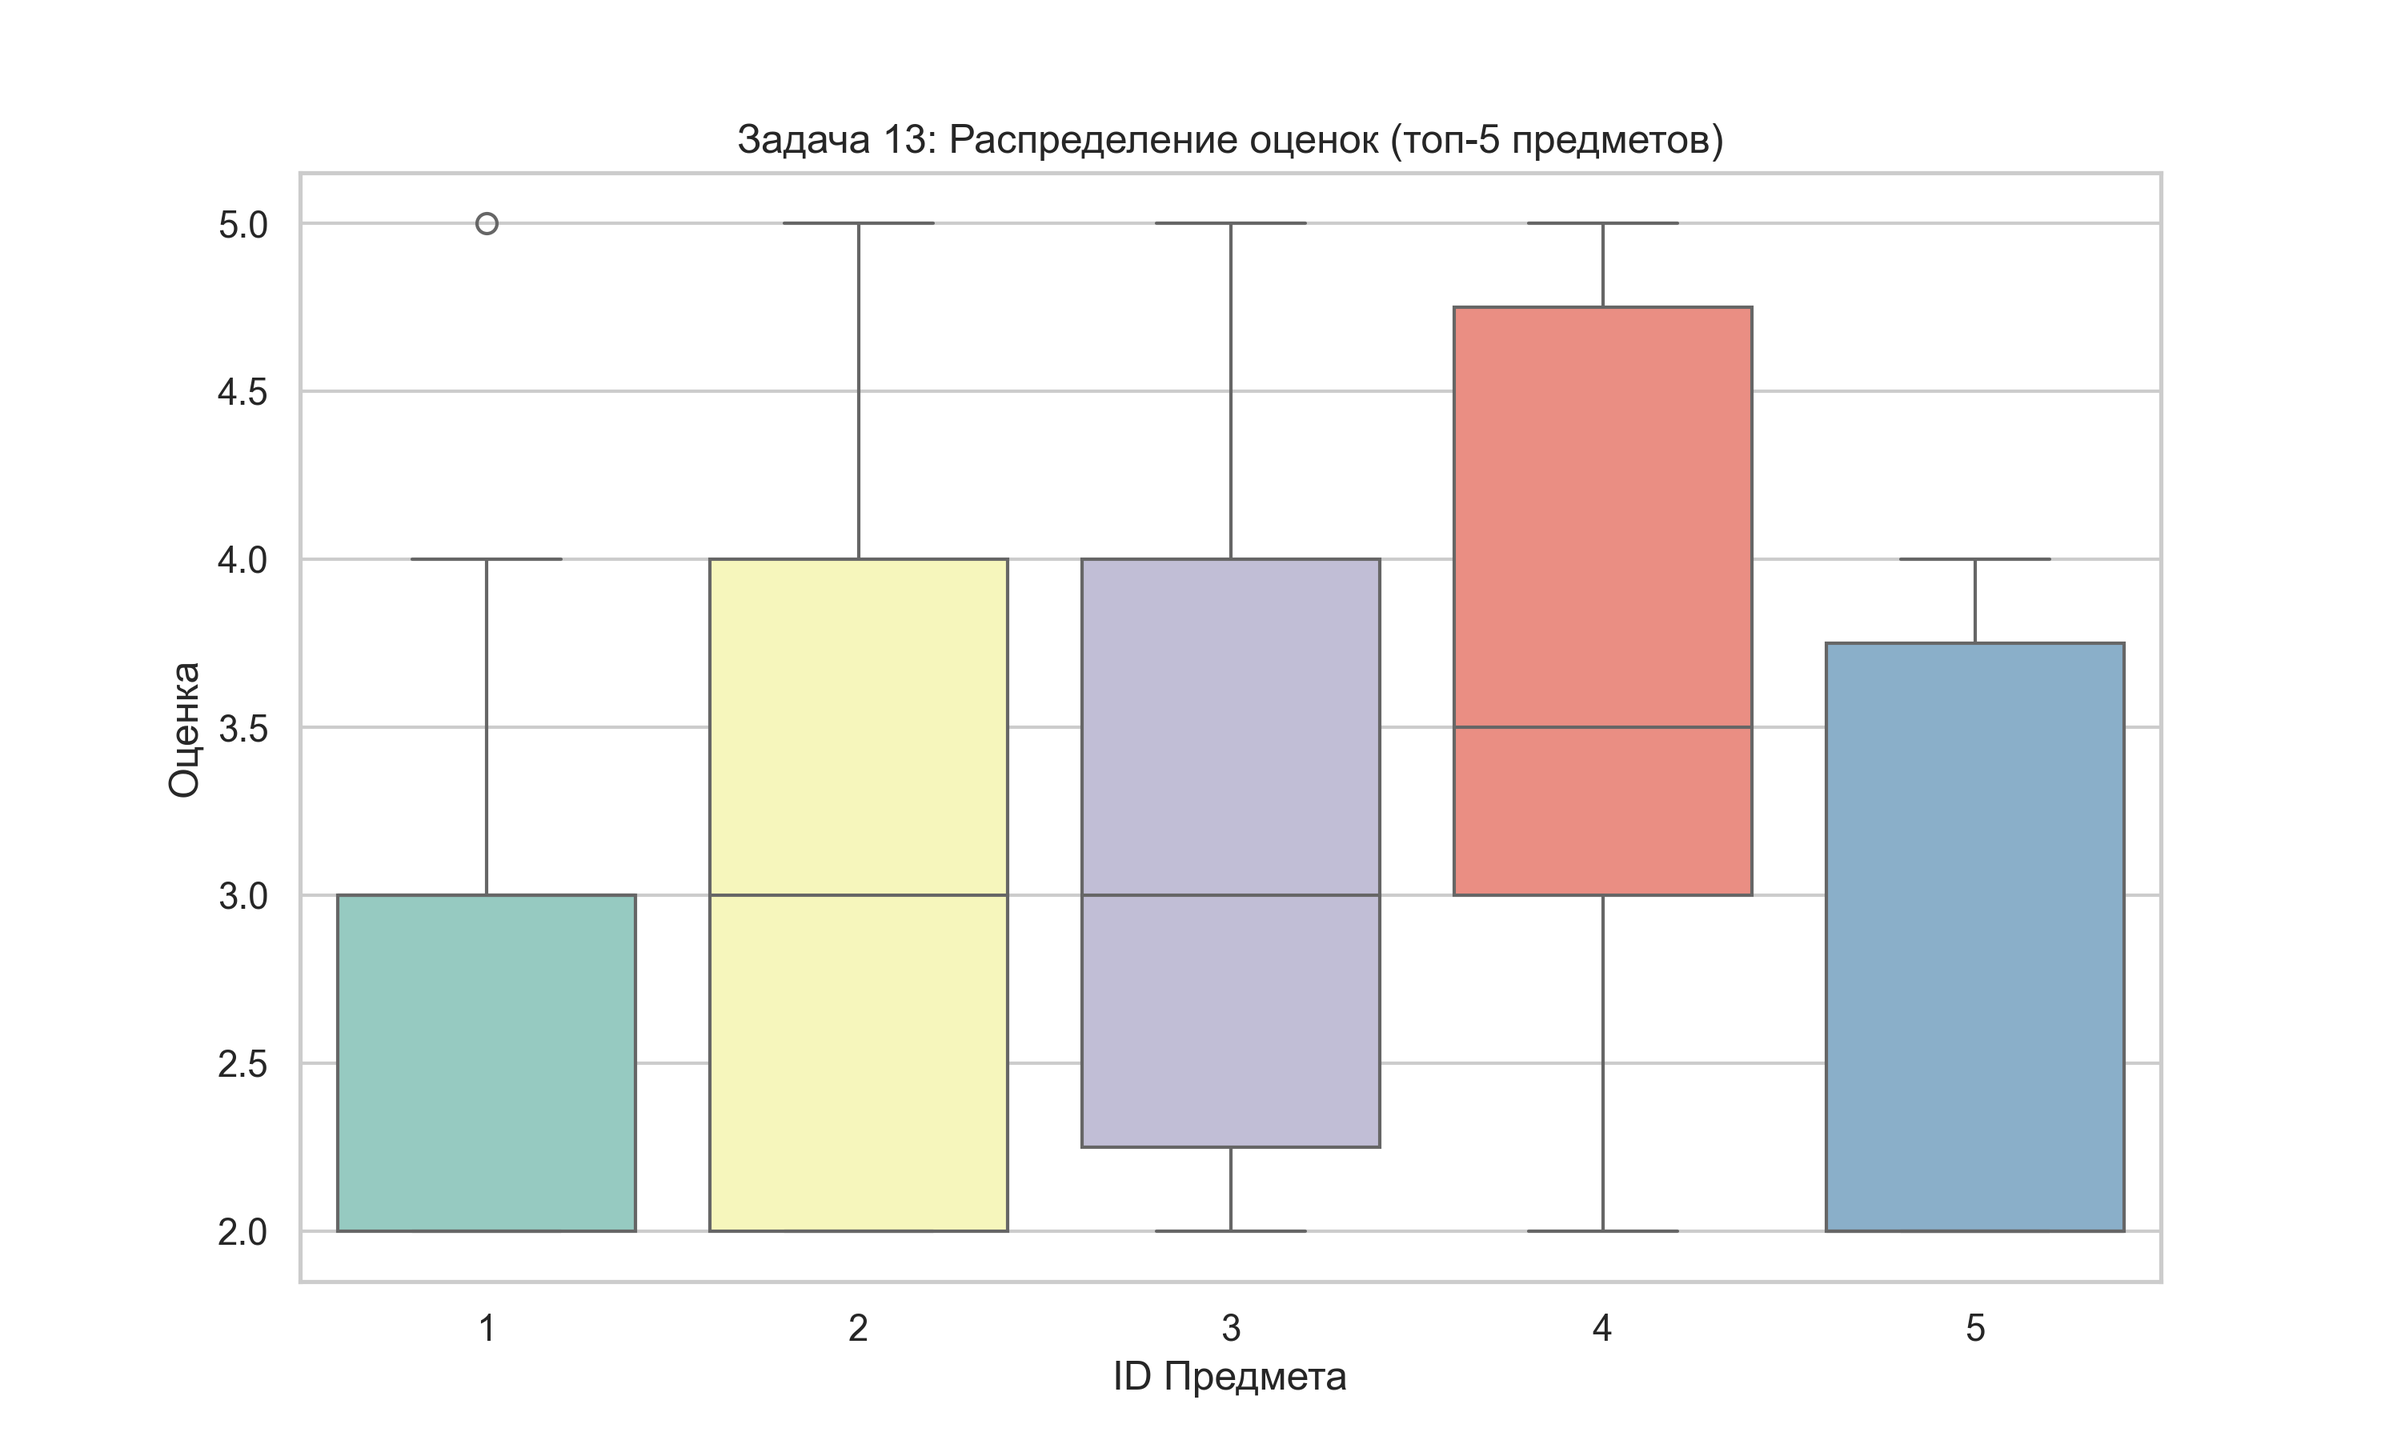
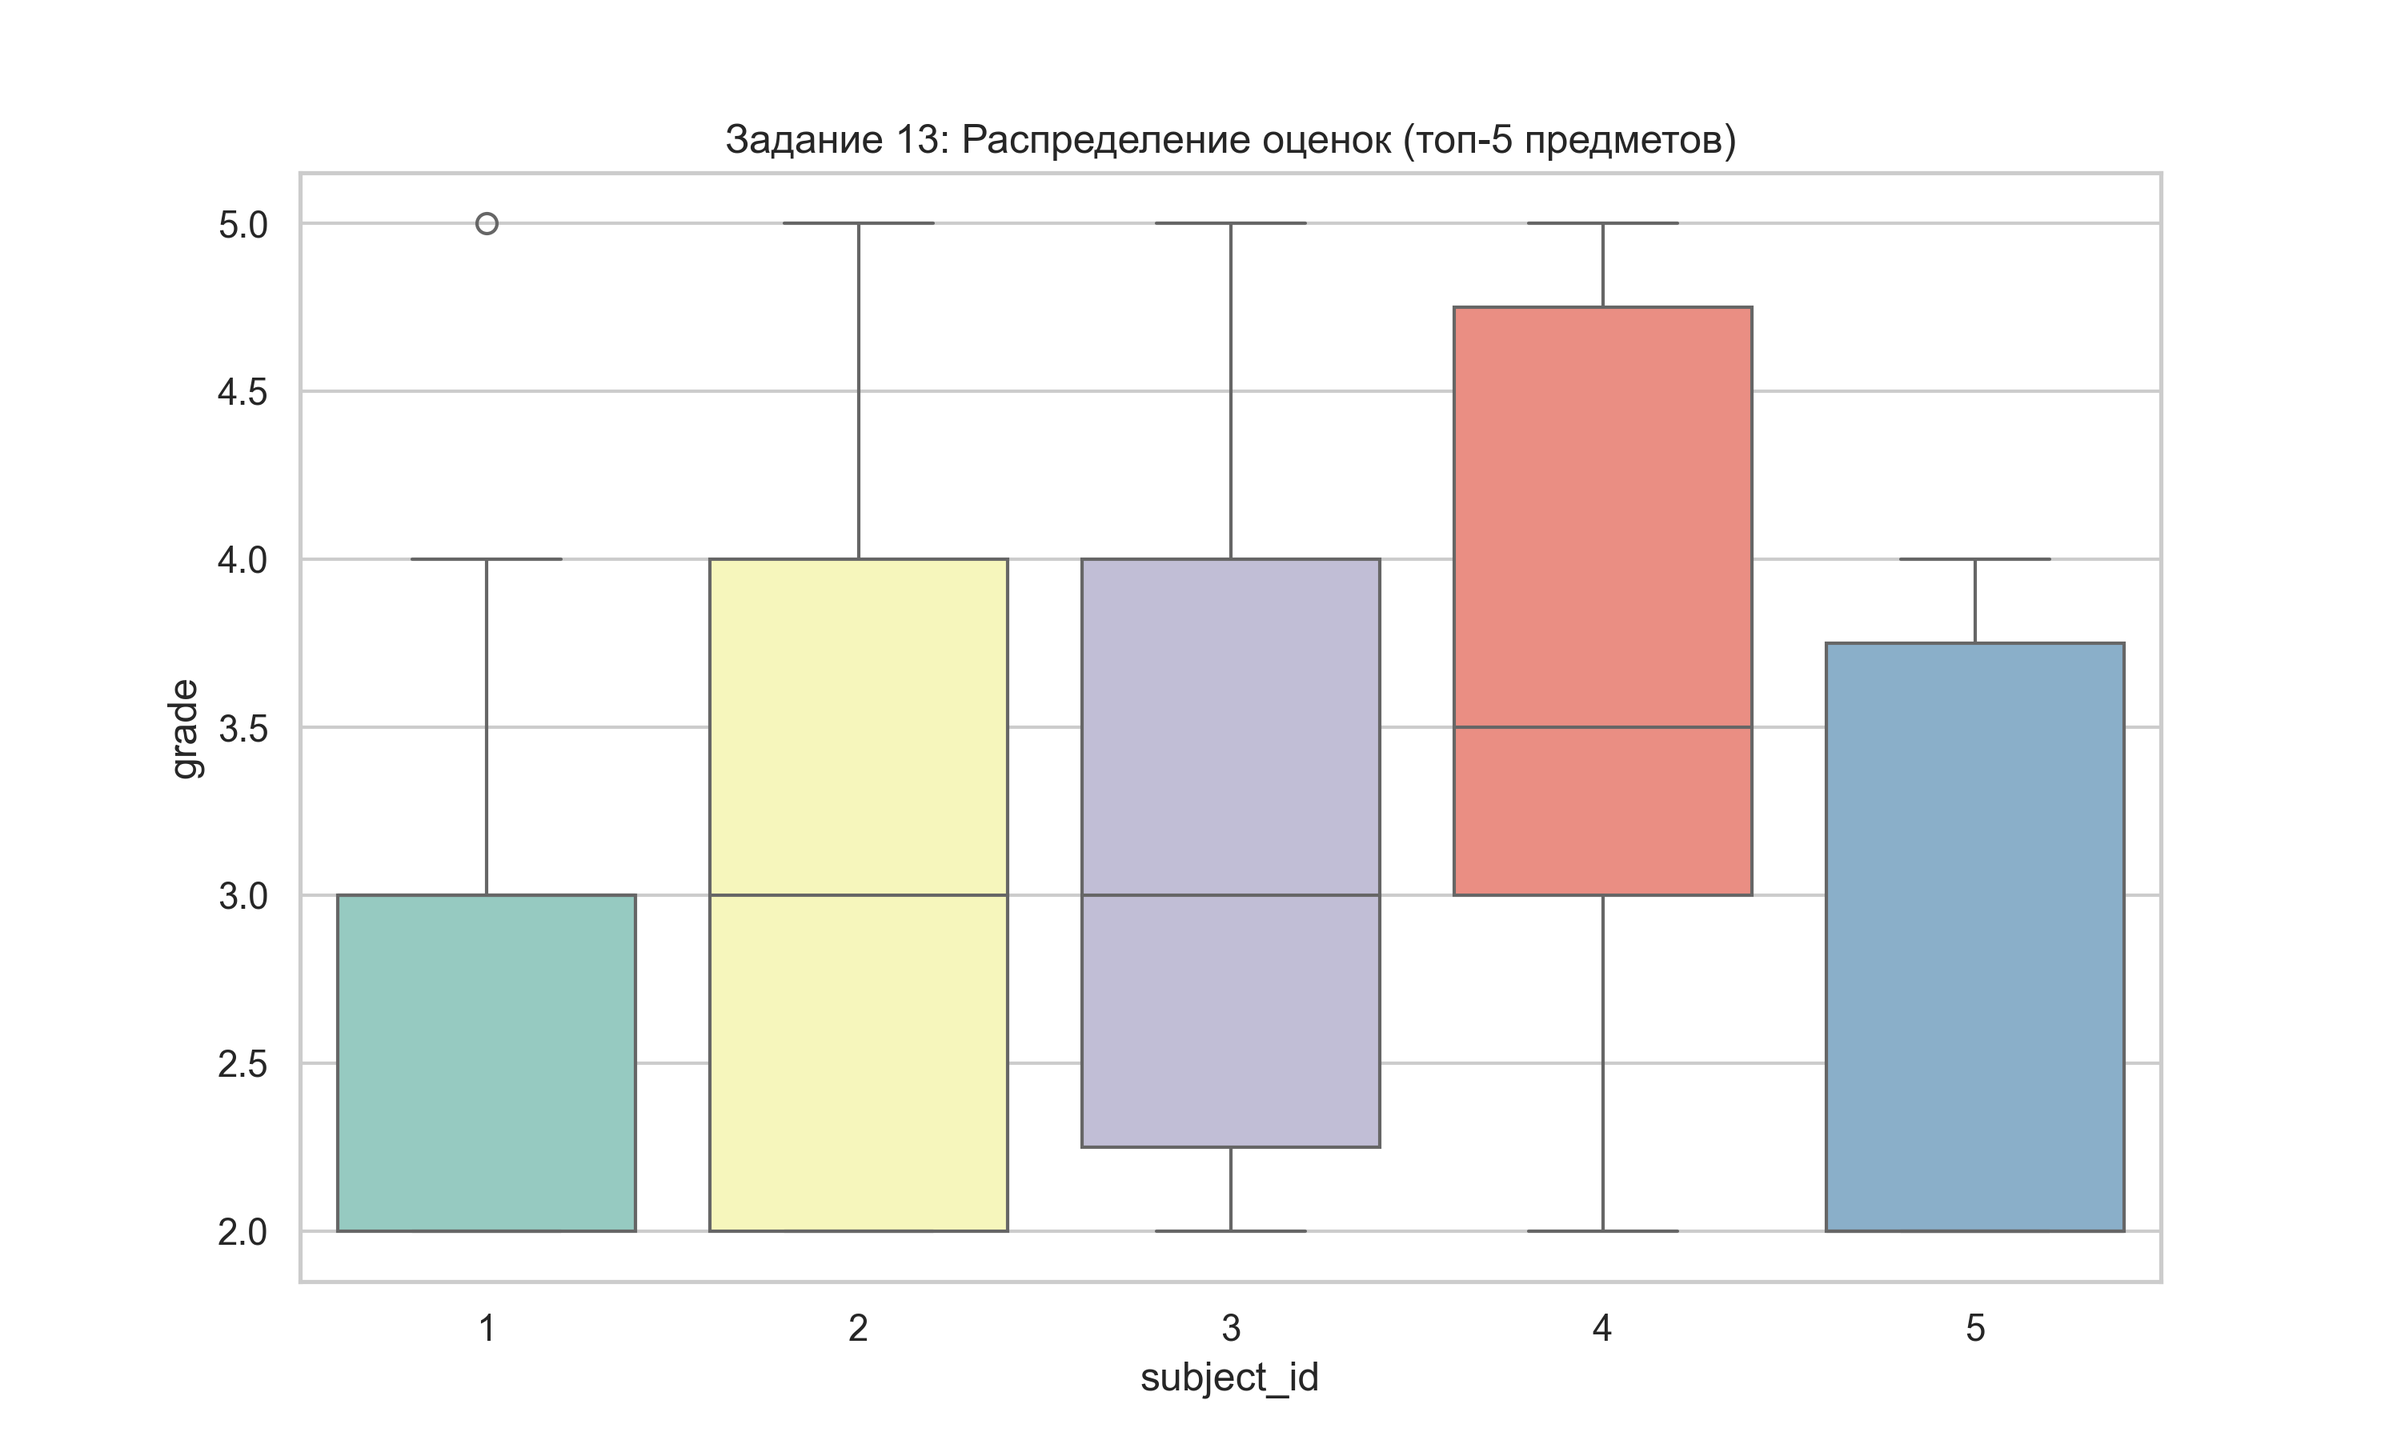
13 week commit

Changed region(s): [[0.31, 0.0622, 0.713, 0.1244], [0.465, 0.9333, 0.558, 0.9644], [0.062, 0.4667, 0.093, 0.56]]

diff --git a/main.py b/main.py
@@ -7,7 +7,7 @@ import seaborn as sns
 import os
 
 
-# ========== 9. FakeGradesGenerator (Генерация данных) ==========
+# ========== Задание 9: Генератор исходных данных ==========
 class FakeGradesGenerator:
     def __init__(self, filename, seed=42):
         self.filename = filename
@@ -17,23 +17,20 @@ class FakeGradesGenerator:
 
     def generate(self):
         random.seed(self.seed)
-        try:
-            with open(self.filename, "w", newline="") as f:
-                writer = csv.writer(f)
-                writer.writerow(["student_id", "subject_id", "grade"])
-                for student_id in range(1, self.num_students + 1):
-                    for subject_id in range(1, self.num_subjects + 1):
-                        grade = random.randint(2, 5)
-                        writer.writerow([student_id, subject_id, grade])
-            print(f"=== Задание 9: Файл '{self.filename}' успешно создан ===")
-        except Exception as e:
-            print(f"Ошибка при создании файла: {e}")
+        with open(self.filename, "w", newline="") as f:
+            writer = csv.writer(f)
+            writer.writerow(["student_id", "subject_id", "grade"])
+            for student_id in range(1, self.num_students + 1):
+                for subject_id in range(1, self.num_subjects + 1):
+                    grade = random.randint(2, 5)
+                    writer.writerow([student_id, subject_id, grade])
 
     def run(self):
         self.generate()
+        print(f"=== Задание 9: Файл '{self.filename}' создан ===")
 
 
-# ========== 10. GradesCorrelation (Работа с шумом и корреляцией) ==========
+# ========== Задание 10: Генерация скоррелированных данных ==========
 class GradesCorrelation:
     def __init__(self, input_file, output_file, seed=42):
         self.input_file = input_file
@@ -42,61 +39,78 @@ class GradesCorrelation:
 
     def process(self):
         if not os.path.exists(self.input_file):
-            print(f"Ошибка: Входной файл {self.input_file} не найден.")
+            print(f"Ошибка: {self.input_file} не найден")
             return
 
-        df_in = pd.read_csv(self.input_file)
-        # Создаем коррелированную оценку: 70% от оригинала + случайный шум
-        noise = self.rng.normal(0, 0.3, size=len(df_in))
-        df_in['grade2'] = (0.7 * df_in['grade'] + noise).clip(2.0, 5.0).round(2)
+        with open(self.input_file, "r") as f:
+            reader = csv.DictReader(f)
+            rows = list(reader)
 
-        df_in.to_csv(self.output_file, index=False)
-        print(f"=== Задание 10: Файл '{self.output_file}' с корреляцией создан ===")
+        output_rows = []
+        for row in rows:
+            sid = row['student_id']
+            subid = row['subject_id']
+            grade1 = float(row['grade'])
+
+            # grade2 = 0.7 * grade1 + шум
+            noise = self.rng.normal(0, 0.3)
+            grade2 = np.clip(0.7 * grade1 + noise, 2.0, 5.0)
+            output_rows.append([sid, subid, grade1, round(grade2, 2)])
+
+        with open(self.output_file, "w", newline="") as f:
+            writer = csv.writer(f)
+            writer.writerow(["student_id", "subject_id", "grade1", "grade2"])
+            writer.writerows(output_rows)
 
     def run(self):
         self.process()
+        print(f"=== Задание 10: Файл '{self.output_file}' с корреляцией создан ===")
 
 
-# ========== 11. GradesValidator (Валидация Pandas) ==========
+# ========== Задание 11: Валидация данных (Pandas) ==========
 class GradesValidator:
     def __init__(self, filename):
         self.filename = filename
+        self.df = None
 
     def run(self):
-        print("\n=== Задание 11: Валидация ===")
-        try:
-            df = pd.read_csv(self.filename)
-            print(f"✅ Файл '{self.filename}' загружен.")
+        print("\n=== Задание 11: Валидация данных ===")
+        if not os.path.exists(self.filename):
+            print("Файл не найден.")
+            return
 
-            # Проверка типов и диапазона
-            if not np.issubdtype(df['grade'].dtype, np.number):
-                print("❌ Ошибка: колонка 'grade' не является числовой!")
-            elif (df['grade'] < 2).any() or (df['grade'] > 5).any():
-                print("❌ Ошибка: Обнаружены оценки вне диапазона [2, 5]!")
-            else:
-                print("✅ Валидация пройдена: все оценки в норме.")
+        self.df = pd.read_csv(self.filename)
+        print(f"✅ Файл '{self.filename}' загружен.")
 
-            print("\nКраткая статистика:")
-            print(df['grade'].describe())
-        except Exception as e:
-            print(f"Ошибка при валидации: {e}")
+        # Проверка типов данных
+        print(f"Типы колонок:\n{self.df.dtypes}")
+
+        # Проверка диапазона оценок [2, 5]
+        grades = self.df['grade']
+        if (grades < 2).any() or (grades > 5).any():
+            print("❌ Ошибка: Есть оценки вне диапазона 2-5!")
+        else:
+            print("✅ Все оценки в корректном диапазоне [2, 5].")
+
+        print("\n--- Описательная статистика ---")
+        print(self.df.describe())
 
 
-# ========== 12. GradesAnalyzer (Анализ средних баллов) ==========
+# ========== Задание 12: Анализ средних баллов ==========
 class GradesAnalyzer:
     def __init__(self, filename):
         self.filename = filename
 
     def run(self):
-        print("\n=== Задание 12: Анализ средних баллов ===")
+        print("\n=== Задание 12: Анализ средних баллов по предметам ===")
         df = pd.read_csv(self.filename)
-        # Группировка по предметам и сортировка
+        # Группировка по ID предмета и расчет среднего
         means = df.groupby('subject_id')['grade'].mean().sort_values(ascending=False)
-        print("Средние оценки по ID предметов:")
         print(means.reset_index().to_string(index=False))
+        return means
 
 
-# ========== 13. GradeVisualizer (Визуализация ООП) ==========
+# ========== Задание 13: Визуализация (ООП) ==========
 class GradeVisualizer:
     def __init__(self, file_path):
         self.file_path = file_path
@@ -107,17 +121,17 @@ class GradeVisualizer:
     def _load_data(self):
         if os.path.exists(self.file_path):
             self.df = pd.read_csv(self.file_path)
-            print(f"\n[INFO] Данные из '{self.file_path}' подгружены для графиков.")
+            print(f"\n[INFO] Данные загружены для визуализации из '{self.file_path}'")
 
-    def plot_top_subjects_boxplot(self, n_subjects=5, save_path='grades_boxplot.png'):
+    def plot_boxplot(self, n_subjects=5, save_path='grades_boxplot.png'):
         if self.df is None: return
 
-        # Берем первые N уникальных предметов
-        selected_ids = self.df['subject_id'].unique()[:n_subjects]
-        subset = self.df[self.df['subject_id'].isin(selected_ids)]
+        # Берем уникальные предметы
+        subjects = self.df['subject_id'].unique()[:n_subjects]
+        subset = self.df[self.df['subject_id'].isin(subjects)]
 
         plt.figure(figsize=(10, 6))
-        # Исправленный вызов без предупреждений (hue задан явно)
+        # Исправлено: добавили hue и legend=False для тишины в консоли
         sns.boxplot(
             x='subject_id',
             y='grade',
@@ -126,23 +140,17 @@ class GradeVisualizer:
             hue='subject_id',
             legend=False
         )
-
-        plt.title(f'Задача 13: Распределение оценок (топ-{n_subjects} предметов)')
-        plt.xlabel('ID Предмета')
-        plt.ylabel('Оценка')
+        plt.title(f'Задание 13: Распределение оценок (топ-{n_subjects} предметов)')
         plt.savefig(save_path, dpi=300)
         plt.show()
         plt.close()
-        print(f"✅ Boxplot сохранен: {save_path}")
+        print(f"✅ График Boxplot сохранен: {save_path}")
 
-    def plot_grade_histogram(self, save_path='grades_hist.png'):
+    def plot_histogram(self, save_path='grades_hist.png'):
         if self.df is None: return
-
         plt.figure(figsize=(8, 5))
         sns.histplot(self.df['grade'], bins=10, kde=True, color='skyblue')
-        plt.title('Задача 13: Общее распределение оценок (Histogram)')
-        plt.xlabel('Оценка')
-        plt.ylabel('Частота')
+        plt.title('Задание 13: Общая гистограмма оценок')
         plt.savefig(save_path, dpi=300)
         plt.show()
         plt.close()
@@ -150,34 +158,31 @@ class GradeVisualizer:
 
 
 # ============================================================
-# ГЛАВНЫЙ БЛОК УПРАВЛЕНИЯ (MAIN)
+# ГЛАВНЫЙ БЛОК ЗАПУСКА (MAIN)
 # ============================================================
 if __name__ == "__main__":
-    # Названия файлов
-    base_file = "fake_grades.csv"
-    corr_file = "fake_grades_v2.csv"
+    # 1. Генерация данных (9)
+    generator = FakeGradesGenerator("fake_grades.csv")
+    generator.run()
 
-    # Шаг 9: Генерация
-    FakeGradesGenerator(base_file).run()
+    # 2. Создание коррелированных данных (10)
+    correlation = GradesCorrelation("fake_grades.csv", "fake_grades_v2.csv")
+    correlation.run()
 
-    # Шаг 10: Корреляция
-    GradesCorrelation(base_file, corr_file).run()
-
-    # Шаг 11: Валидация
-    validator = GradesValidator(base_file)
+    # 3. Валидация (11)
+    validator = GradesValidator("fake_grades.csv")
     validator.run()
 
-    # Шаг 12: Анализ
-    analyzer = GradesAnalyzer(base_file)
+    # 4. Анализ (12)
+    analyzer = GradesAnalyzer("fake_grades.csv")
     analyzer.run()
 
-    # Шаг 13: Визуализация
+    # 5. Визуализация (13)
     print("\n" + "=" * 40)
-    print("ЗАПУСК ВИЗУАЛИЗАЦИИ ДАННЫХ")
+    print("ВЫПОЛНЕНИЕ ВИЗУАЛИЗАЦИИ")
     print("=" * 40)
+    visualizer = GradeVisualizer("fake_grades.csv")
+    visualizer.plot_boxplot(n_subjects=5)
+    visualizer.plot_histogram()
 
-    vis = GradeVisualizer(base_file)
-    vis.plot_top_subjects_boxplot(n_subjects=5)
-    vis.plot_grade_histogram()
-
-    print("\n✅ Весь цикл задач (9-13) выполнен успешно.")
+    print("\n✅ Весь проект (задания 9-13) выполнен успешно!")
